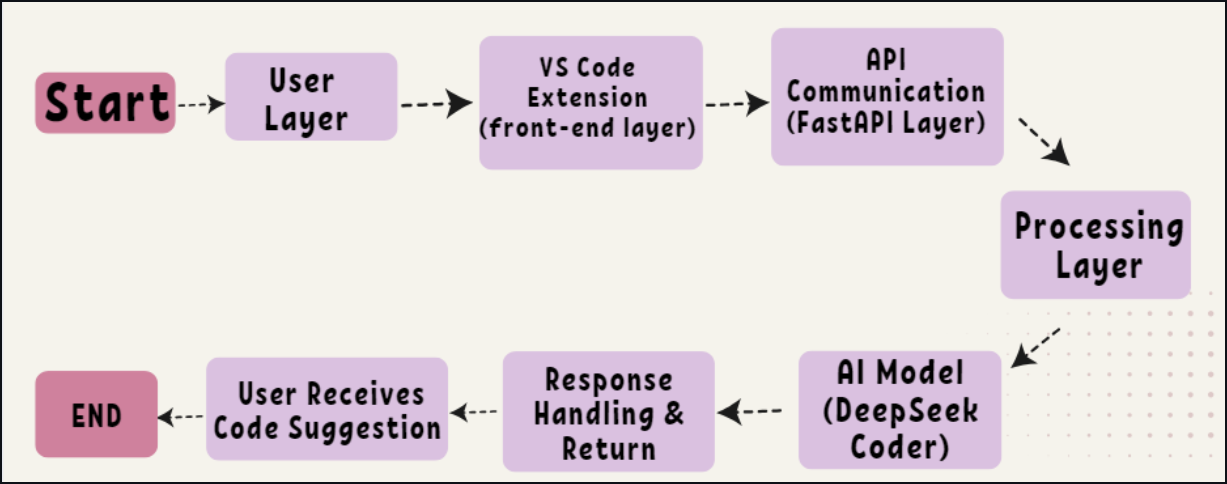
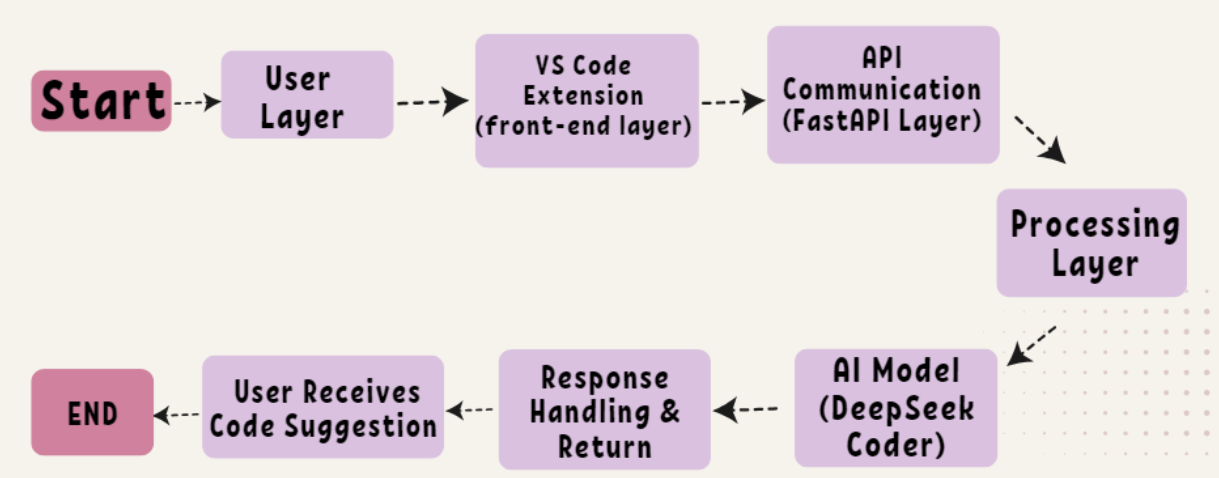
Fixed a bug

diff --git a/README.md b/README.md
@@ -29,7 +29,7 @@ Welcome to **CodeGenie**, an intelligent **VS Code extension** that brings the p
 ![Architecture Diagram](images/ArchitectureDiagram.png)
 
 # 🧠 WorkFlow
-![Workflow](images/WorkFlow.png)
+![Workflow](images/Workflow.png)
 # 📖 Brief Explanation of the Reference Research Papers  
 
 ### 🔬 DeepSeek-Coder: Open-Source Large Language Models for Code Intelligence  
